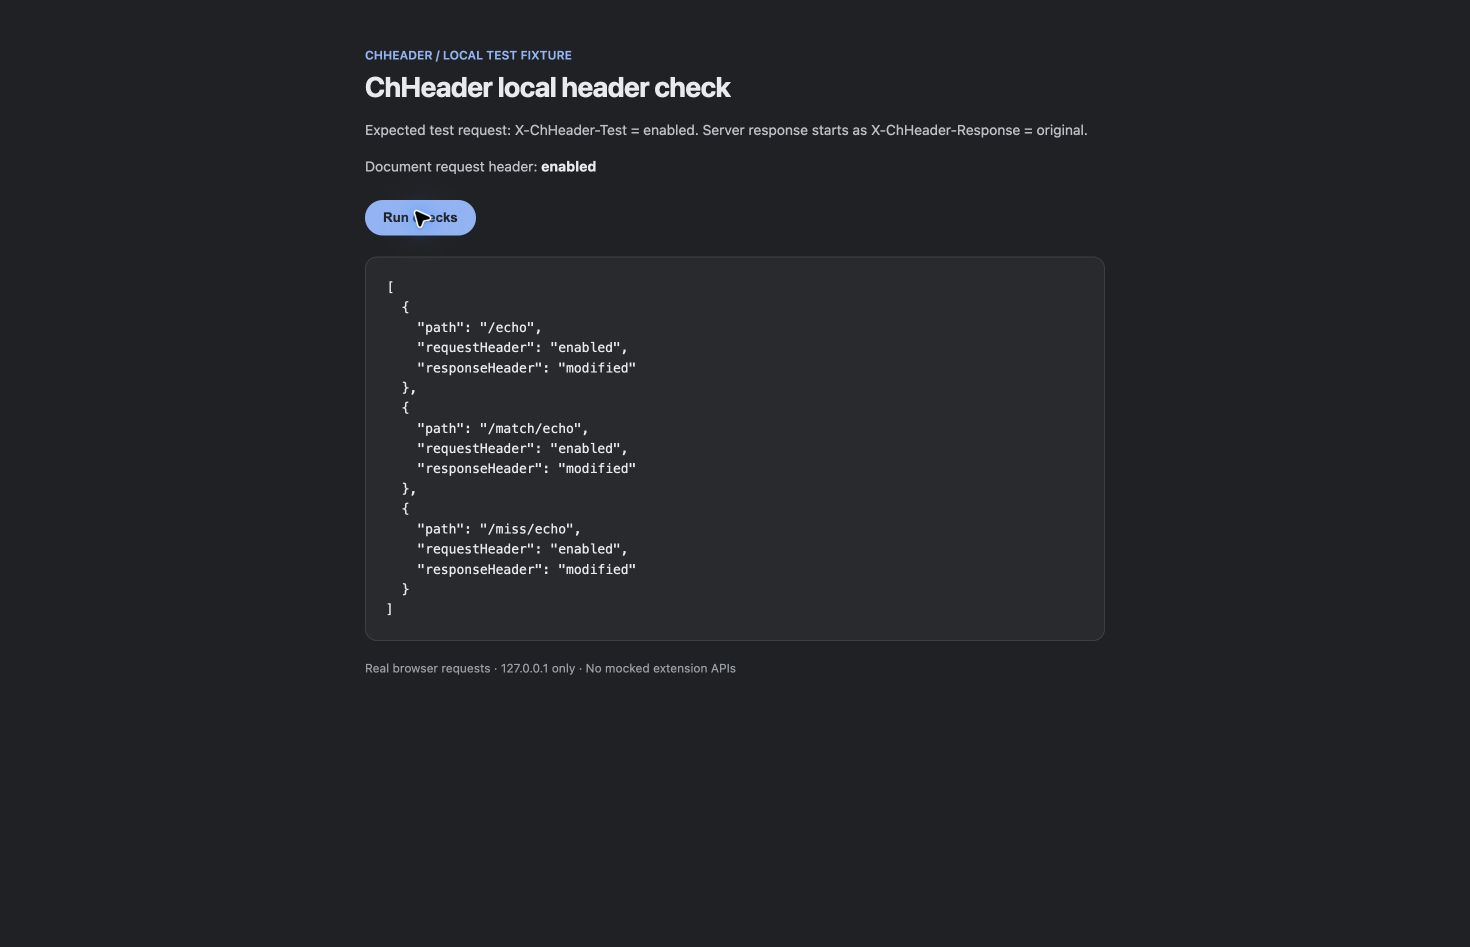
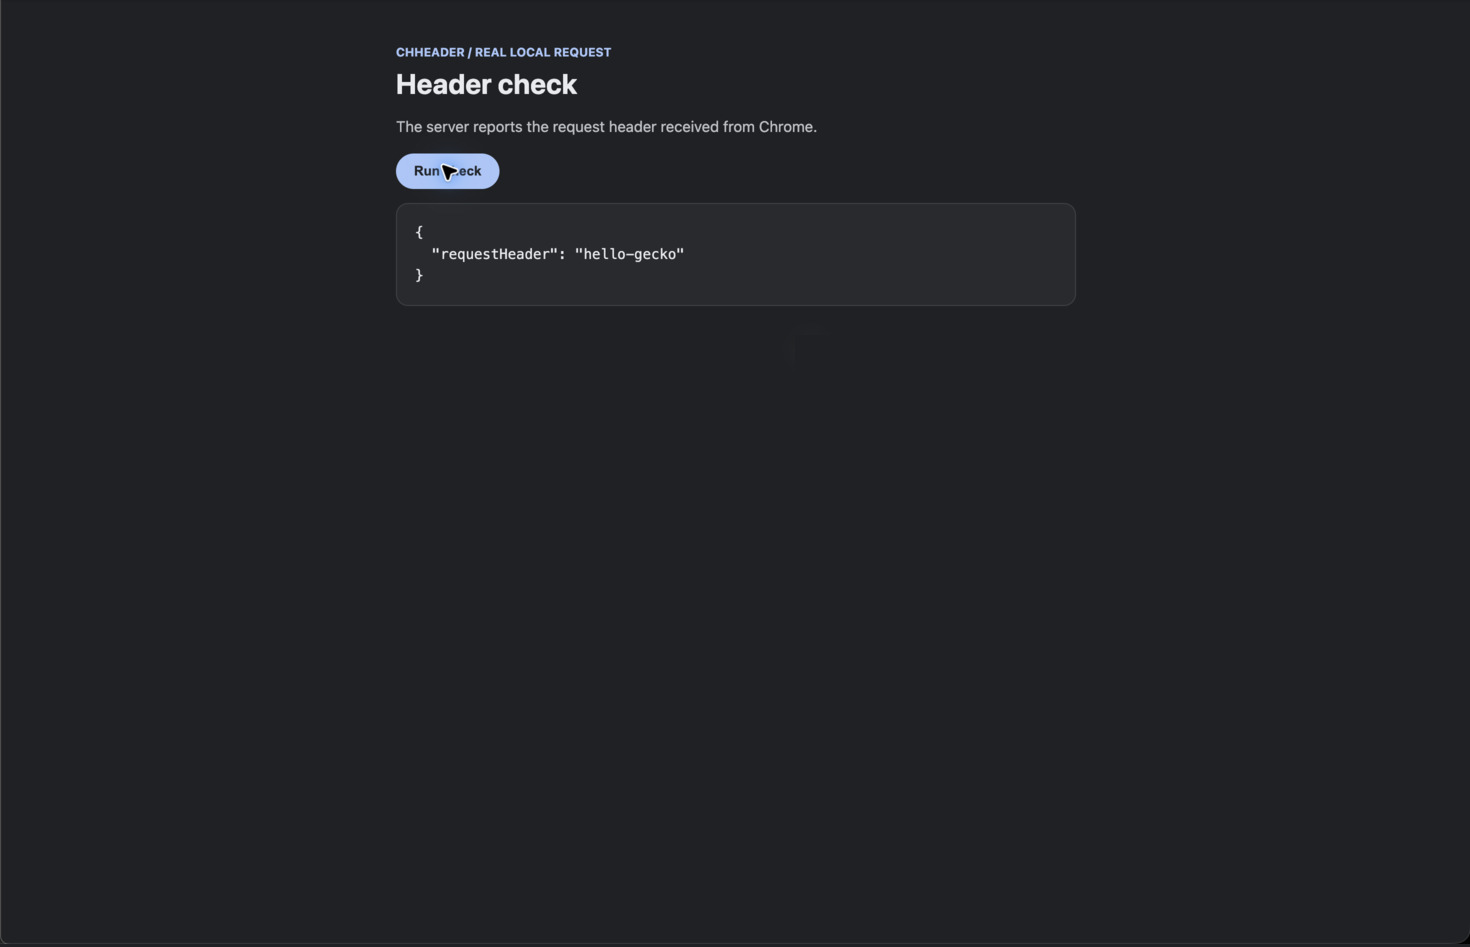
Release ChHeader 0.4.4

diff --git a/src/ui/core/popup-template.ts b/src/ui/core/popup-template.ts
@@ -207,13 +207,15 @@ export function getPopupTemplate(options?: { containerClass?: string }): string 
               <input id="accessSites" class="field field--access-sites" type="text" placeholder="api.example.com, localhost" aria-describedby="accessHelp accessStatusDetail" />
               <button id="saveAccessSites" type="button" class="button button--secondary button--md">Save</button>
             </div>
-            <div id="accessStatus" class="access-status" data-state="empty" role="status" aria-live="polite">
-              <span id="accessStatusBadge" class="access-status__badge">No sites</span>
-              <span id="accessStatusDetail">Add a hostname to continue.</span>
-            </div>
-            <div class="access-panel__actions">
-              <button id="grantAccess" type="button" class="button button--primary button--md" hidden>Approve sites</button>
-              <button id="revokeAccess" data-revoke-access type="button" class="button button--secondary button--md" hidden>Revoke all access</button>
+            <div class="access-panel__footer">
+              <div id="accessStatus" class="access-status" data-state="empty" role="status" aria-live="polite">
+                <span id="accessStatusBadge" class="access-status__badge">No sites</span>
+                <span id="accessStatusDetail">Add a hostname to continue.</span>
+              </div>
+              <div class="access-panel__actions">
+                <button id="grantAccess" type="button" class="button button--primary button--sm" hidden>Approve sites</button>
+                <button id="revokeAccess" data-revoke-access type="button" class="button button--secondary button--sm" hidden>Revoke all access</button>
+              </div>
             </div>
           </section>
 

diff --git a/src/ui/core/styles.css b/src/ui/core/styles.css
@@ -1099,12 +1099,18 @@ svg {
   gap: 6px;
   margin-top: 5px;
 }
-.access-status {
+.access-panel__footer {
   display: flex;
   min-width: 0;
   gap: 7px;
   align-items: center;
   margin-top: 8px;
+}
+.access-status {
+  display: flex;
+  min-width: 0;
+  gap: 7px;
+  align-items: center;
   color: var(--muted);
   font-size: 11px;
 }
@@ -1128,6 +1134,7 @@ svg {
 }
 .access-panel__actions {
   display: flex;
+  flex-shrink: 0;
   gap: 6px;
-  margin-top: 8px;
+  margin-left: auto;
 }

diff --git a/README.md b/README.md
@@ -2,7 +2,7 @@
 <h1 align="center">ChHeader</h1>
 <p align="center">By <a href="https://kahwee.com">KahWee Teng</a> · No ads. Local profiles. Open source.</p>
 <p align="center">Edit HTTP request and response headers in Chrome.</p>
-<p align="center"><a href="https://github.com/kahwee/ch-header/releases/latest">Download for Chrome</a> · <a href="https://www.youtube.com/watch?v=vmv77KYgOAo">Watch the 55-second demo</a> · <a href="https://kahwee.com/2026/why-i-built-chheader/">Why I built it</a></p>
+<p align="center"><a href="https://github.com/kahwee/ch-header/releases/latest">Download for Chrome</a> · <a href="https://www.youtube.com/watch?v=vmv77KYgOAo">Watch the demo</a> · <a href="https://kahwee.com/2026/why-i-built-chheader/">Why I built it</a></p>
 
 I’m [KahWee Teng](https://kahwee.com). I built ChHeader because ModHeader’s
 [ad injection](https://news.ycombinator.com/item?id=37772829) put me off.
@@ -19,18 +19,32 @@ select the extracted folder, then pin ChHeader. To update, replace those files a
 click **Reload**. Version 0.4.3 is awaiting Chrome Web Store review.
 
 This README describes main; check release notes for your installed version.
-The video shows 0.4.1, before optional website permissions.
+
+## See it in Chrome
+
+<p align="center"><img src="docs/screenshots/popup.jpg" width="758" alt="ChHeader profile enabled after Chrome website access was approved"></p>
+
+<p align="center">
+  <img src="docs/screenshots/access-needed.jpg" width="49%" alt="Website access panel showing that approval is needed">
+  <img src="docs/screenshots/header-check.jpg" width="49%" alt="Local server confirming that Chrome sent the configured hello-gecko request header">
+</p>
+
+Website access is explicit: save a narrow hostname, approve it in Chrome, then turn
+the profile on. The local test above received `X-ChHeader-Demo: hello-gecko` from a
+real Chrome request. The [capture guide](docs/screenshots/README.md) keeps README,
+Store and video media reproducible.
 
 ## Try it
 
 Open the [HTTPS header tester](https://headers.kahwee.com). Import the
 [ready-made test profile](docs/examples/https-profile.json), or set up one site:
 
-1. Create a profile. Set **Allowed sites** to `headers.kahwee.com`.
+1. Create a profile. Under **Website access**, set the site to `headers.kahwee.com`,
+   choose **Save**, then **Approve sites**.
 2. Choose **URL pattern** and enter `|https://headers.kahwee.com/headers/match|`.
 3. Add request header `X-ChHeader-Test: hello-gecko` and response header `X-ChHeader-Response: modified`.
-4. Turn the profile **on** and approve access. If Chrome closes the popup, reopen it,
-   select that profile and enable it again.
+4. Turn the profile **on**. If Chrome closes the popup while showing its native
+   permission prompt, reopen ChHeader and select the profile.
 5. Reload the test pages, then click **Run checks**. Only the matching path should change.
    Turn the profile off and run again to compare.
 

diff --git a/TESTING.md b/TESTING.md
@@ -575,3 +575,19 @@ panel to Approved; enabling the profile then sent `X-ChHeader-QA: popup-refactor
 to a real local HTTP request. The profile was switched off, all website access was
 revoked, and the local server was stopped. Browser audit captures remain ignored
 under `.local/qa/allowed-sites-audit/`.
+
+### Updated product media — September 15, 2026
+
+Captured the actual Chrome toolbar popup for the complete website-access journey:
+approval needed, approved, enabled, live localhost verification, and revoked/off.
+Only synthetic `X-ChHeader-Demo: hello-gecko` data was used. Curated captures are
+in `docs/screenshots/`; raw full-screen captures remain ignored in `.local/qa/`.
+The temporary localhost server was stopped, the demo profile was left off and all
+temporary website access was revoked.
+
+After visual review, the Approve and Revoke actions were reduced to the 28px button
+size and moved onto the status row. A second actual-Chrome capture pass confirmed
+the compact layout in both access states without changing keyboard or status text.
+
+`pnpm media:video` builds a captioned 1080p walkthrough, subtitle file, upload copy
+and contact sheet from those curated images under ignored `.local/qa/video-latest/`.

diff --git a/docs/screenshots/README.md b/docs/screenshots/README.md
@@ -1,0 +1,20 @@
+# Product media
+
+These are curated product images used by the README, Chrome Web Store listing and
+demo video. They show the real unpacked Chrome extension with synthetic demo data.
+
+## Current walkthrough
+
+1. `access-needed.jpg` — saved hostname before Chrome access is approved.
+2. `access-approved.jpg` — access approved while the profile remains off.
+3. `popup.jpg` — approved profile enabled with its request header visible.
+4. `header-check.jpg` — a real localhost request received by the demo server.
+5. `access-revoked.jpg` — access revoked and every profile off.
+
+Keep each popup capture at 758 × 454. Keep browser results at 1470 × 947. Use only
+demo hostnames and values, leave profiles off, revoke temporary website access and
+stop local fixtures after capture.
+
+Raw screen captures, crops and contact sheets belong in `.local/qa/`; do not commit
+them. After replacing the curated files, run `pnpm media:video` to create the local
+1080p video, captions and upload copy, then visually inspect its contact sheet.

diff --git a/RELEASE_NOTES.md b/RELEASE_NOTES.md
@@ -1,8 +1,11 @@
-# ChHeader 0.4.3
+# ChHeader 0.4.4
 
-Hardens rule maintenance: every URL matcher now receives a stable DNR rule ID,
-and duplicate IDs fail clearly instead of silently omitting a rule. Saved legacy
-resource types remain compatible.
+Tightens the Website access panel by keeping its approval status and action on one
+compact row. Approve and revoke controls now match the surrounding interface while
+remaining clearly labeled and keyboard accessible.
 
-The build now requires Node 26.7.0 or newer and uses pnpm 12.4.2. No extension
+The README now uses a refreshed set of actual-Chrome screenshots, and maintainers
+can rebuild the captioned 1080p product walkthrough with `pnpm media:video`.
+
+The build requires Node 26.7.0 or newer and uses pnpm 12.4.2. No extension
 permissions, data collection, or profile behavior changed.
